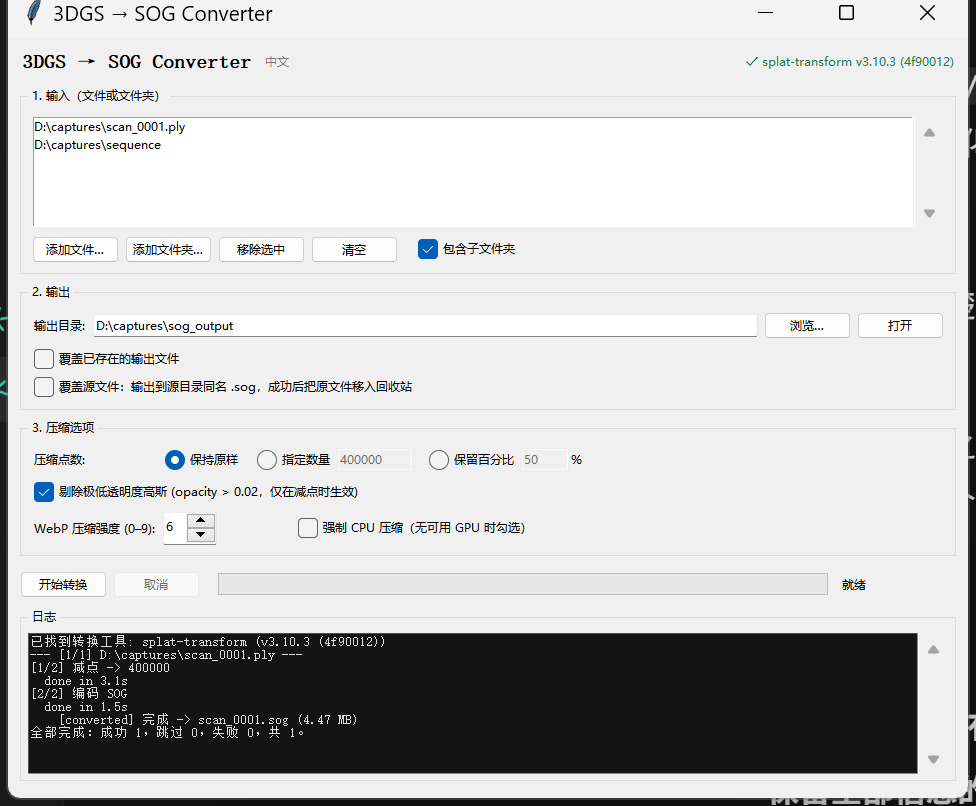
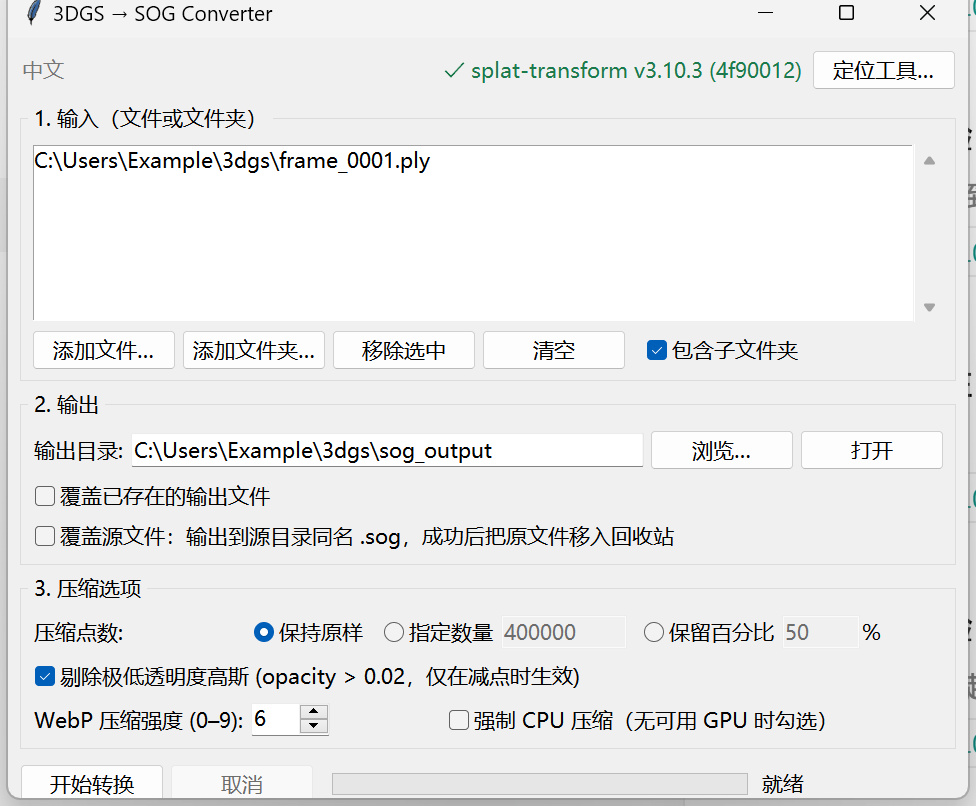
Auto-discover splat-transform (incl. bundled Node), add Locate-tool button, remove duplicate title, DPI-aware scaling

diff --git a/sog_converter/core.py b/sog_converter/core.py
@@ -11,6 +11,8 @@ User-facing strings are translated through :mod:`sog_converter.i18n`.
 from __future__ import annotations
 
 import ctypes
+import glob
+import json
 import os
 import re
 import shutil
@@ -32,8 +34,10 @@ __all__ = [
     "cli_version",
     "collect_inputs",
     "find_cli",
+    "load_cli_config",
     "plan_jobs",
     "run_conversion",
+    "save_cli_config",
 ]
 
 INPUT_SUFFIXES = {".ply", ".spz", ".splat", ".ksplat"}
@@ -133,20 +137,145 @@ class Report:
         return len(self.results)
 
 
+CONFIG_NAME = ".3dgs_sog_converter.json"
+
+
+def _config_path() -> Path:
+    return Path.home() / CONFIG_NAME
+
+
+def load_cli_config() -> Optional[str]:
+    """Return a previously saved manual tool path, if still valid."""
+    try:
+        path = _config_path()
+        if not path.is_file():
+            return None
+        data = json.loads(path.read_text(encoding="utf-8"))
+        cli = data.get("cli")
+        if cli and Path(cli).expanduser().is_file():
+            return str(Path(cli).expanduser())
+    except (OSError, ValueError):
+        pass
+    return None
+
+
+def save_cli_config(cli: str) -> None:
+    """Persist a manually chosen tool path for future launches."""
+    try:
+        path = _config_path()
+        try:
+            data = json.loads(path.read_text(encoding="utf-8"))
+        except (OSError, ValueError):
+            data = {}
+        data["cli"] = str(cli)
+        path.write_text(
+            json.dumps(data, indent=2, ensure_ascii=False), encoding="utf-8"
+        )
+    except OSError:
+        pass
+
+
+def _cli_names() -> List[str]:
+    """Candidate executable names, preferring a Windows launcher."""
+    if os.name == "nt":
+        return [
+            "splat-transform.cmd",
+            "splat-transform.exe",
+            "splat-transform.bat",
+            "splat-transform",
+        ]
+    return ["splat-transform"]
+
+
+def _prefer_cmd(path: str) -> str:
+    """On Windows, prefer the .cmd launcher over an extensionless bash script."""
+    if os.name == "nt":
+        ext = os.path.splitext(path)[1].lower()
+        if ext not in (".cmd", ".exe", ".bat", ".ps1"):
+            cand = path + ".cmd"
+            if os.path.isfile(cand):
+                return cand
+    return path
+
+
+def _candidate_cli_dirs() -> List[str]:
+    """Directories likely to contain a global splat-transform install."""
+    dirs: List[str] = []
+
+    # npm global prefix: on Windows the launcher lives directly in this dir.
+    try:
+        proc = subprocess.run(
+            ["npm", "prefix", "-g"], capture_output=True, text=True,
+            encoding="utf-8", errors="replace", timeout=15,
+        )
+        if proc.returncode == 0:
+            d = proc.stdout.strip()
+            if d and Path(d).is_dir():
+                dirs.append(d)
+    except (OSError, subprocess.SubprocessError):
+        pass
+
+    appdata = os.environ.get("APPDATA")
+    if appdata:
+        dirs.append(os.path.join(appdata, "npm"))
+    localappdata = os.environ.get("LOCALAPPDATA")
+    if localappdata:
+        dirs.append(os.path.join(localappdata, "npm"))
+
+    # WorkBuddy bundled Node versions (this machine's layout).
+    for d in sorted(
+        glob.glob(str(Path.home() / ".workbuddy" / "binaries" / "node"
+                     / "versions" / "*")), reverse=True
+    ):
+        if os.path.isdir(d):
+            dirs.append(d)
+
+    for d in ("C:\\Program Files\\nodejs", "C:\\nodejs", "C:\\ProgramData\\npm"):
+        if os.path.isdir(d):
+            dirs.append(d)
+
+    seen: set = set()
+    out: List[str] = []
+    for d in dirs:
+        if d not in seen:
+            seen.add(d)
+            out.append(d)
+    return out
+
+
 def find_cli() -> Optional[str]:
-    """Locate splat-transform, honouring an explicit override."""
+    """Locate splat-transform, honouring overrides then common install paths.
+
+    Resolution order:
+        1. ``SPLAT_TRANSFORM`` environment variable
+        2. a tool path saved through the GUI "Locate tool" button
+        3. the system ``PATH`` (preferring the Windows ``.cmd`` launcher)
+        4. well-known global-install directories (npm prefix, AppData, etc.)
+    """
     override = os.environ.get("SPLAT_TRANSFORM")
     if override:
         path = Path(override).expanduser()
         if path.is_file():
-            return str(path)
+            return _prefer_cmd(str(path))
         found = shutil.which(override)
         if found:
-            return found
-    for name in ("splat-transform", "splat-transform.cmd", "splat-transform.exe"):
+            return _prefer_cmd(found)
+
+    cfg = load_cli_config()
+    if cfg:
+        return _prefer_cmd(cfg)
+
+    for name in _cli_names():
         found = shutil.which(name)
         if found:
-            return found
+            return _prefer_cmd(found)
+
+    exts = (".cmd", ".exe", ".bat", ".ps1", "") if os.name == "nt" else ("",)
+    for d in _candidate_cli_dirs():
+        for ext in exts:
+            cand = os.path.join(d, "splat-transform" + ext)
+            if os.path.isfile(cand):
+                return _prefer_cmd(cand)
     return None
 
 

diff --git a/sog_converter/gui.py b/sog_converter/gui.py
@@ -23,12 +23,13 @@ MAX_LOG_LINES = 2000
 
 class ConverterApp(tk.Tk):
     def __init__(self) -> None:
+        self._enable_high_dpi()
         super().__init__()
         self.title_text = i18n.t("app_title")
         self.title(self.title_text)
         self.geometry("960x760")
         self.minsize(860, 680)
-        self._enable_windows_dpi()
+        self._apply_dpi_scaling()
 
         self.cli: str | None = core.find_cli()
         self.queue: queue.Queue = queue.Queue()
@@ -52,13 +53,47 @@ class ConverterApp(tk.Tk):
         self.destroy()
 
     @staticmethod
-    def _enable_windows_dpi() -> None:
+    def _enable_high_dpi() -> None:
+        """Declare DPI awareness before any window is created.
+
+        Must run before ``tkinter.Tk()`` so the OS reports the true monitor
+        DPI instead of bitmap-stretching the window (which makes it tiny or
+        blurry on high-DPI displays).
+        """
         if os.name != "nt":
             return
         try:
             import ctypes
 
-            ctypes.windll.shcore.SetProcessDpiAwareness(1)
+            # PROCESS_PER_MONITOR_DPI_AWARE_V2 (best) -> per-monitor -> system.
+            try:
+                ctypes.windll.shcore.SetProcessDpiAwarenessContext(-4)
+            except (AttributeError, OSError):
+                try:
+                    ctypes.windll.shcore.SetProcessDpiAwareness(2)
+                except (AttributeError, OSError):
+                    ctypes.windll.user32.SetProcessDPIAware()
+        except (AttributeError, OSError):
+            pass
+
+    def _apply_dpi_scaling(self) -> None:
+        """Ask Tk to scale fonts to the real monitor DPI.
+
+        Tk only knows the default (96 DPI) font metrics unless we tell it the
+        physical DPI, so a 150% display would otherwise show tiny text.
+        """
+        if os.name != "nt":
+            return
+        try:
+            import ctypes
+
+            self.update_idletasks()
+            hwnd = self.winfo_id()
+            dpi = ctypes.windll.user32.GetDpiForWindow(hwnd) if hwnd else 0
+            if not dpi or dpi <= 0:
+                dpi = ctypes.windll.user32.GetDpiForSystem()
+            if dpi and dpi > 0:
+                self.tk.call("tk", "scaling", "-displayof", ".", dpi / 72.0)
         except (AttributeError, OSError):
             pass
 
@@ -72,10 +107,11 @@ class ConverterApp(tk.Tk):
 
         header = ttk.Frame(root)
         header.grid(row=row, column=0, sticky="ew", pady=(0, 10))
-        ttk.Label(header, text=self.title_text,
-                  font=("TkDefaultFont", 14, "bold")).pack(side=tk.LEFT)
         ttk.Label(header, text=i18n.t("lang_badge"),
-                  foreground="#777777").pack(side=tk.LEFT, padx=(10, 0))
+                  foreground="#777777").pack(side=tk.LEFT)
+        self.cli_browse = ttk.Button(header, text=i18n.t("btn_locate_tool"),
+                                     command=self._browse_cli)
+        self.cli_browse.pack(side=tk.RIGHT, padx=(8, 0))
         self.cli_label = ttk.Label(header, text=i18n.t("cli_detecting"),
                                    foreground="#666666")
         self.cli_label.pack(side=tk.RIGHT)
@@ -272,6 +308,21 @@ class ConverterApp(tk.Tk):
         path = filedialog.askdirectory(title=i18n.t("dlg_output"))
         if path:
             self.output_var.set(path)
+
+    def _browse_cli(self) -> None:
+        path = filedialog.askopenfilename(
+            title=i18n.t("dlg_locate_tool"),
+            filetypes=[
+                (i18n.t("dlg_tool_filetypes"), "*.cmd *.exe *.bat *.ps1"),
+                (i18n.t("dlg_all_files"), "*.*"),
+            ],
+        )
+        if not path:
+            return
+        self.cli = path
+        core.save_cli_config(path)
+        self._log(i18n.t("log_cli_set", cli=path))
+        self._refresh_cli_status()
 
     def _open_output(self) -> None:
         path = Path(self.output_var.get().strip() or ".")

diff --git a/tests/test_core.py b/tests/test_core.py
@@ -110,6 +110,53 @@ class CliDiscoveryTests(unittest.TestCase):
             with mock.patch.object(core.shutil, "which", return_value="/custom/splat"):
                 self.assertEqual(core.find_cli(), "/custom/splat")
 
+    def test_finds_cli_in_candidate_directory(self):
+        with tempfile.TemporaryDirectory() as tmp:
+            d = Path(tmp)
+            (d / "splat-transform.cmd").write_text("@echo off")
+            with mock.patch.dict(os.environ, {}, clear=True), \
+                 mock.patch.object(core.shutil, "which", return_value=None), \
+                 mock.patch.object(core, "load_cli_config", return_value=None), \
+                 mock.patch.object(core, "_candidate_cli_dirs", return_value=[str(d)]):
+                self.assertEqual(core.find_cli(), str(d / "splat-transform.cmd"))
+
+    def test_returns_none_when_absent(self):
+        with mock.patch.dict(os.environ, {}, clear=True), \
+             mock.patch.object(core.shutil, "which", return_value=None), \
+             mock.patch.object(core, "load_cli_config", return_value=None), \
+             mock.patch.object(core, "_candidate_cli_dirs", return_value=[]):
+            self.assertIsNone(core.find_cli())
+
+    def test_config_roundtrip(self):
+        with tempfile.TemporaryDirectory() as tmp:
+            cfg = Path(tmp) / ".3dgs_sog_converter.json"
+            tool = Path(tmp) / "splat-transform.cmd"
+            tool.write_text("@echo off")
+            with mock.patch.object(core, "_config_path", return_value=cfg):
+                core.save_cli_config(str(tool))
+                self.assertEqual(core.load_cli_config(), str(tool))
+
+    def test_config_ignores_missing_file(self):
+        with tempfile.TemporaryDirectory() as tmp:
+            cfg = Path(tmp) / ".3dgs_sog_converter.json"
+            with mock.patch.object(core, "_config_path", return_value=cfg):
+                self.assertIsNone(core.load_cli_config())
+
+    @unittest.skipUnless(os.name == "nt", "Windows-only .cmd preference")
+    def test_prefer_cmd_on_windows(self):
+        with tempfile.TemporaryDirectory() as tmp:
+            d = Path(tmp)
+            (d / "splat-transform").write_text("#!/bin/sh")
+            (d / "splat-transform.cmd").write_text("@echo off")
+            self.assertEqual(
+                core._prefer_cmd(str(d / "splat-transform")),
+                str(d / "splat-transform.cmd"),
+            )
+            self.assertEqual(
+                core._prefer_cmd(str(d / "splat-transform.cmd")),
+                str(d / "splat-transform.cmd"),
+            )
+
 
 if __name__ == "__main__":
     unittest.main(verbosity=2)

diff --git a/sog_converter/i18n.py b/sog_converter/i18n.py
@@ -49,6 +49,10 @@ STRINGS: Dict[str, Dict[str, str]] = {
         "app_title": "3DGS → SOG Converter",
         "lang_badge": "中文",
         "cli_detecting": "检测工具中…",
+        "btn_locate_tool": "定位工具…",
+        "dlg_locate_tool": "选择 splat-transform 可执行文件",
+        "dlg_tool_filetypes": "可执行文件",
+        "log_cli_set": "已指定转换工具: {cli}",
         "cli_missing": "✗ 未找到 splat-transform",
         "cli_ok": "✓ {version}",
         "frame_input": " 1. 输入（文件或文件夹） ",
@@ -152,6 +156,10 @@ STRINGS: Dict[str, Dict[str, str]] = {
         "app_title": "3DGS → SOG Converter",
         "lang_badge": "English",
         "cli_detecting": "Detecting tool…",
+        "btn_locate_tool": "Locate tool…",
+        "dlg_locate_tool": "Select the splat-transform executable",
+        "dlg_tool_filetypes": "Executables",
+        "log_cli_set": "Converter set: {cli}",
         "cli_missing": "✗ splat-transform not found",
         "cli_ok": "✓ {version}",
         "frame_input": " 1. Input (files or folders) ",

diff --git a/README.md b/README.md
@@ -28,6 +28,10 @@ The interface follows the OS language or an explicit command-line flag; this REA
   Every output is written to a temporary file and atomically replaced, so a failed conversion never damages an existing file.
 - 中英文界面与日志同步切换，MIT 许可。  
   UI and log messages switch language together; released under the MIT License.
+- 自动查找 `splat-transform`；找不到时可用「定位工具…」按钮手动指定并记住。  
+  Auto-discovers `splat-transform`, with a "Locate tool…" button as a manual fallback that is remembered.
+- 按系统 DPI 缩放（高分屏清晰不偏小），支持 Windows / macOS / Linux。  
+  Scales to the system DPI for crisp high-DPI rendering; works on Windows, macOS and Linux.
 
 ## 界面语言
 *Interface language*
@@ -131,8 +135,14 @@ chmod +x run.sh
 python app.py
 ```
 
-窗口右上角会显示检测到的 CLI 版本。若显示红色的「未找到 splat-transform」，可设置 `SPLAT_TRANSFORM` 指向可执行文件。  
-The top-right corner shows the detected CLI version. If it reports the CLI as missing, point `SPLAT_TRANSFORM` at the executable.
+工具自动查找：程序会按 `SPLAT_TRANSFORM` 环境变量、上次的手动指定、`PATH`，以及 npm 全局目录（`npm prefix -g`）、`%APPDATA%\npm` 等常见位置依次查找 `splat-transform`；在 Windows 上优先使用 `.cmd` 启动器。  
+Auto-discovery: the app searches, in order, the `SPLAT_TRANSFORM` variable, the last manual pick, the `PATH`, and common global-install folders such as `npm prefix -g` and `%APPDATA%\npm`; on Windows it prefers the `.cmd` launcher.
+
+窗口右上角会显示检测到的 CLI 版本；若显示红色的「未找到 splat-transform」，点右侧的「定位工具…」按钮手动选择其可执行文件（选择后会被记住，下次自动复用），或设置下面的环境变量。  
+The top-right corner shows the detected CLI version. If it reports the CLI as missing, click the "Locate tool…" button on the right to pick the executable manually (saved for next launch), or set the environment variable below.
+
+> 提示：通过某些工具（如 WorkBuddy 自带的 Node）全局安装时，`splat-transform` 可能在系统登录 PATH 之外，双击 `run.bat` 时会找不到；此时用「定位工具…」按钮一次即可永久解决。  
+> Note: when installed through a bundled Node (e.g. WorkBuddy's), the tool can sit outside your login PATH and won't be found when you double-click `run.bat`; the "Locate tool…" button fixes it permanently in one click.
 
 ```bash
 # Windows PowerShell
@@ -271,6 +281,15 @@ print(report.converted, report.skipped, report.failed)
 
 确认 `npm install -g @playcanvas/splat-transform` 已执行，且 npm 全局 bin 目录在 PATH 中；也可设置 `SPLAT_TRANSFORM`。  
 Ensure `npm install -g @playcanvas/splat-transform` has run and npm's global bin is on PATH, or set `SPLAT_TRANSFORM`.
+
+部分全局安装（如 WorkBuddy 自带 Node）会把工具放在登录 PATH 之外，双击 `run.bat` 时检测不到；直接点窗口右上角的「定位工具…」按钮选一次即可永久记住。  
+Some global installs (e.g. WorkBuddy's bundled Node) place the tool outside your login PATH, so it is missed when you double-click `run.bat`; just click "Locate tool…" in the top-right once to remember it permanently.
+
+**问：界面在高分屏（4K / 缩放 150%）上偏小或模糊？**  
+**Q: The UI looks tiny or blurry on a high-DPI (4K / 150%) display?**
+
+程序已按系统 DPI 做适配（Windows 每显示器感知 + Tk 字体缩放），无需手动设置。若仍有偏差，请确认系统缩放为推荐值。  
+The app already adapts to the system DPI (per-monitor awareness on Windows plus Tk font scaling), so no manual tweaking is needed. If it still looks off, keep the OS scaling at its recommended value.
 
 **问：中文路径或带空格的路径能处理吗？**  
 **Q: Do non-ASCII or spaced paths work?**
